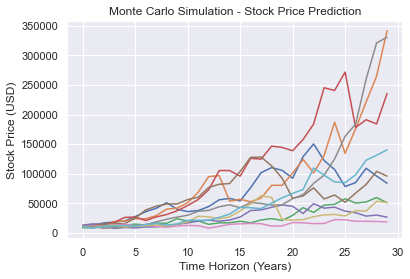
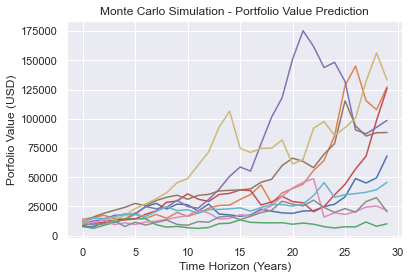
Finalized Monte Carlo app and re-ran test case

diff --git a/monte_carlo.py b/monte_carlo.py
@@ -1,0 +1,96 @@
+# -*- coding: utf-8 -*-
+"""
+Created on Tue Mar  7 03:50:10 2023
+
+@author: JosephRe
+"""
+
+import numpy as np
+import numpy.random as npr
+import pandas as pd
+from scipy.stats import norm
+
+class MonteCarlo:
+    '''
+    A class that can perform a variety of calculations related to Monte Carlo.
+
+    Methods
+    -------
+    quick_var(value, vol, T, CL)
+        Calculates the deterministic parametric value at risk
+
+    mc_VaR(pv, er, vol, T, iterations)
+        Calculates a Monte Carlo estimation of parametric value at risk
+
+    monte_carlo_sim(pv, er, volatility, horizon, iterations)
+        Performs Monte Carlo simulations to calculate expected portfolio ending value
+    '''
+    
+    def deterministic_var(value, vol, T, confidence):
+        '''
+        Parametric value at risk calculation (also known as the deterministic approach).
+        Volatility is proportial to the square root of time and a percent point function
+        is used as the probability distribution.
+        
+        Parameters:
+        value (float): Value of portfolio in USD
+        vol (float): Portfolio volatility measure
+        T (int): Number of years
+        confidence (float): Confidence level in the percent point function distribution
+        
+        Returns:
+        numpy.float64: Value at risk in USD for one simple 'simulation'
+        '''
+        cutoff = norm.ppf(confidence)
+        return value * vol * np.sqrt(T) * cutoff
+
+
+    def mc_VaR(pv, er, vol, T, iterations):
+        '''
+        Parametric value at risk calculation (also known as the variance-covariance method).
+        Uses Monte Carlo probabilistic methods that leverage the standard normal probability
+        distribution to compute the portfolio's maximum loss. Based on Black-Scholes method.
+        
+        Parameters:
+        pv (float): Value of portfolio in USD
+        er (float): Expected return for the portfolio
+        vol (float): Portfolio volatility measure
+        T (int): Number of years
+        iterations (int): Number of iterations
+        
+        Returns:
+        numpy.ndarray: Vector containing the value at risk estimation
+        '''
+        end = pv * np.exp((er - .5 * vol ** 2) * T + 
+                     vol * np.sqrt(T) * np.random.standard_normal(iterations))
+        ending_values = end - pv
+        return ending_values
+
+
+    def monte_carlo_sim(pv, er, vol, horizon, iterations):
+        '''
+        Calculates portfolio ending value using Monte Carlo simulations and returns the
+        result in a format that can be viewed or plotted.
+        
+        Parameters:
+        pv (float): Value of portfolio in USD
+        er (float): Expected return for the portfolio
+        vol (float): Portfolio volatility measure
+        horizon (int): Time horizon in years
+        iterations (int): Number of iterations
+        
+        Returns:
+        pandas.DataFrame: DataFrame containing the all simulations results for portfolio ending value
+        '''  
+        returns = np.zeros((iterations, horizon))
+        for t in range(iterations):
+            for year in range(horizon):
+                returns[t][year] = npr.normal(er, vol)
+        portfolio = np.zeros((iterations,horizon))
+        for iteration in range(iterations):
+            starting = pv
+            for year in range(horizon):
+                ending = starting * (1 + returns[iteration,year])
+                portfolio[iteration,year] = ending
+                starting = ending
+        return pd.DataFrame(portfolio).T

diff --git a/test_case.py b/test_case.py
@@ -8,9 +8,13 @@ Created on Tue Mar  7 03:54:57 2023
 from monte_carlo import MonteCarlo as mc
 import matplotlib.pyplot as plt
 
+# Run the Monte Carlo application with 10 simulations so the result will be
+# easy to understand when plotted.
 sim = mc.monte_carlo_sim(10000, .105, .195, 30, 10)
+
+# Create plot with result
 plt.plot(sim)
-plt.title('Monte Carlo Simulation - Stock Price Prediction')
-plt.ylabel('Stock Price (USD)')
+plt.title('Monte Carlo Simulation - Portfolio Value Prediction')
+plt.ylabel('Porfolio Value (USD)')
 plt.xlabel('Time Horizon (Years)')
 plt.savefig('monte_carlo_simulations.png', bbox_inches='tight')
